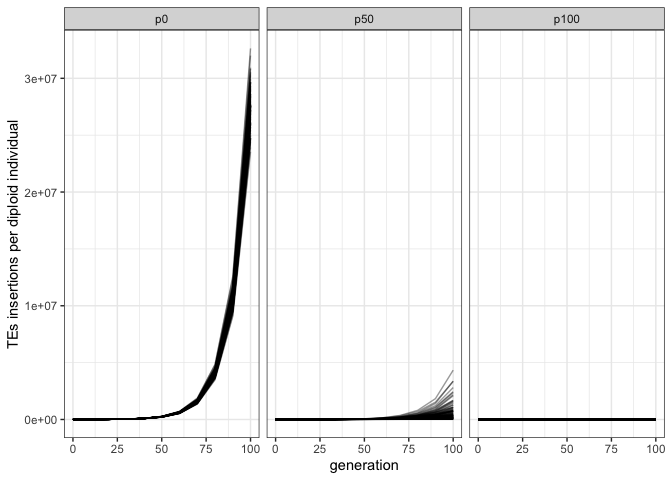
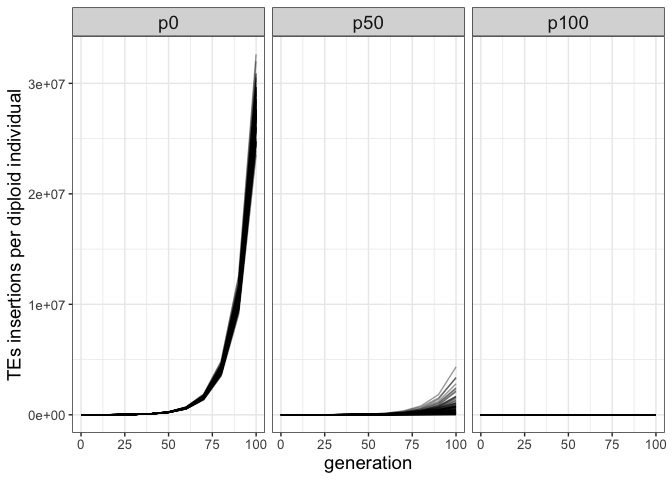
Minor update

diff --git a/Validation/2023_01_20_Validation_9_Paramutations.md b/Validation/2023_01_20_Validation_9_Paramutations.md
@@ -92,9 +92,34 @@ df_total$sampleid <- factor(df_total$sampleid,
 g<-ggplot()+geom_line(data=df_total,aes(x=gen,group=rep,y=avtes*1000),alpha=0.4)+
   ylab("TEs insertions per diploid individual")+
   xlab("generation")+
-  theme()+
+  theme(plot.title = element_text(size=14),
+        axis.text.x = element_text(size=10),
+        axis.text.y = element_text(size=10),
+        axis.title.x = element_text(size=14),
+        axis.title.y = element_text(size=14),
+        strip.text = element_text(size = 14))+
   facet_wrap(~sampleid, ncol=3)
+  facet_wrap(~sampleid, ncol=3)
+```
 
+    ## <ggproto object: Class FacetWrap, Facet, gg>
+    ##     compute_layout: function
+    ##     draw_back: function
+    ##     draw_front: function
+    ##     draw_labels: function
+    ##     draw_panels: function
+    ##     finish_data: function
+    ##     init_scales: function
+    ##     map_data: function
+    ##     params: list
+    ##     setup_data: function
+    ##     setup_params: function
+    ##     shrink: TRUE
+    ##     train_scales: function
+    ##     vars: function
+    ##     super:  <ggproto object: Class FacetWrap, Facet, gg>
+
+``` r
 plot(g)
 ```
 
